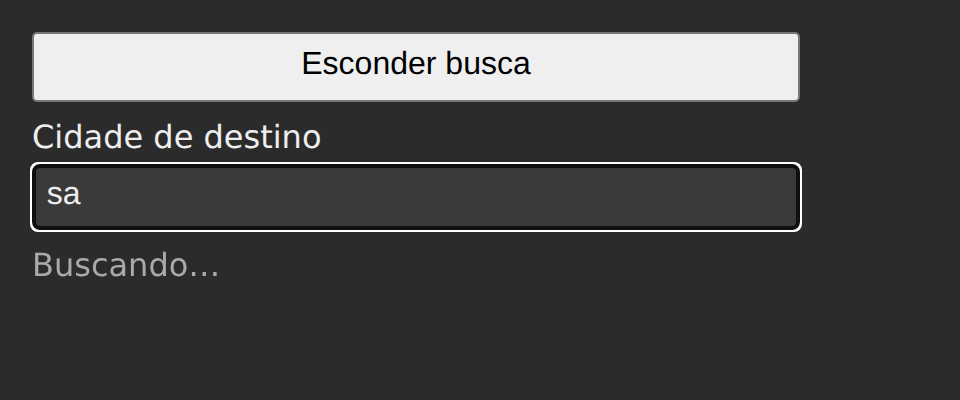
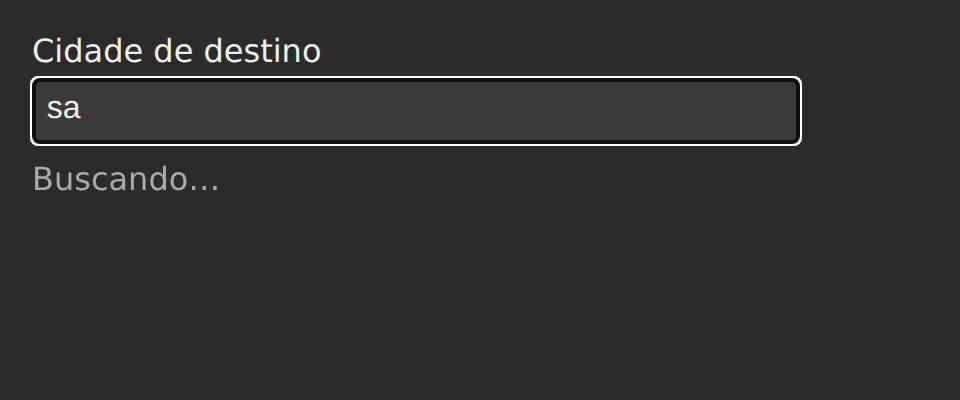
Hospeda a Busca no React pela página comum
A Busca no React ainda traz a página com o botão "Esconder
busca"/"Mostrar busca", um segundo componente que só existe para o teste
de conformidade tirar a busca da página, e por isso falha nas
verificações de "Limpeza ao sair da tela", que desde "Confere a limpeza
ao sair da tela pela rota da página, sem botão" saem e voltam pela rota
do hash de implementacoes/pagina.ts (ADR 0043).

A página sai, com o estado "visivel" e a montagem condicional da busca,
e fica o par montar e desmontar no idioma da tecnologia: o createRoot do
contêiner com o render da busca, e o unmount() da raiz, que roda as
limpezas dos efeitos. O contêiner #raiz do index.html passa a ser o
<main> com a classe do layout, que a página montava. A limpeza ao sair
da tela, no retorno do useEffect, não muda: é o que se compara.

Conferido com npm run conformidade -- busca-com-sugestoes/react (17
verificações ok) e com as capturas regeradas: as 6 cenas saem sem o
botão, iguais às do Web Component e Web Component com signals, e
diferentes das do Solid até o commit dele.

Changed region(s): [[0.0312, 0.06, 0.8438, 0.6], [0.0312, 0.63, 0.2188, 0.69]]

diff --git a/implementacoes/busca-com-sugestoes/react/src/main.tsx b/implementacoes/busca-com-sugestoes/react/src/main.tsx
@@ -8,6 +8,7 @@ import {
   rotulo,
   type Cidade,
 } from "../../dominio";
+import { hospedar } from "../../../pagina";
 import "../../estilo.css";
 
 type Estado =
@@ -108,21 +109,8 @@ function BuscaDeDestino() {
   );
 }
 
-// A página: o botão que tira a busca da página e a põe de volta.
-function BuscaComSugestoes() {
-  const [visivel, setVisivel] = useState(true);
-  return (
-    <main className="busca">
-      <button
-        type="button"
-        className="alternar"
-        onClick={() => setVisivel(!visivel)}
-      >
-        {visivel ? "Esconder busca" : "Mostrar busca"}
-      </button>
-      {visivel && <BuscaDeDestino />}
-    </main>
-  );
-}
-
-createRoot(document.getElementById("raiz")!).render(<BuscaComSugestoes />);
+hospedar((conteiner) => {
+  const raiz = createRoot(conteiner);
+  raiz.render(<BuscaDeDestino />);
+  return () => raiz.unmount();
+});

diff --git a/implementacoes/busca-com-sugestoes/react/index.html b/implementacoes/busca-com-sugestoes/react/index.html
@@ -6,7 +6,7 @@
     <title>Busca com sugestões com React</title>
   </head>
   <body>
-    <div id="raiz"></div>
+    <main id="raiz" class="busca"></main>
     <script type="module" src="/src/main.tsx"></script>
   </body>
 </html>
